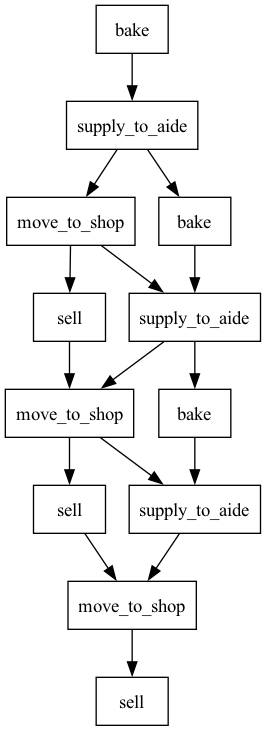
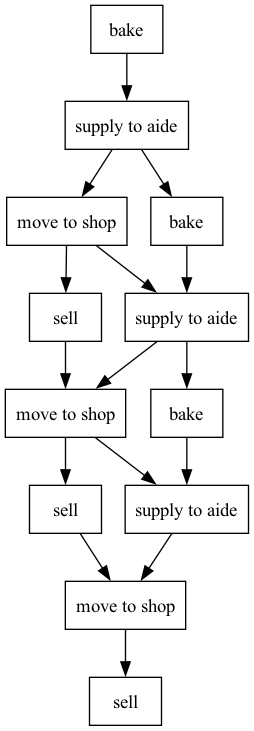
allow spaces in step names

diff --git a/checker.py b/checker.py
@@ -216,9 +216,9 @@ if __name__ == "__main__":
     args = parser.parse_args()
 
     with open(args.ref_run, "r") as f:
-        ref_run_steps = f.readall().split(" ")
+        ref_run_steps = map(lambda a: a.strip(), f.readall().split(","))
     with open(args.check_run, "r") as f:
-        check_run_steps = f.readall().split(" ")
+        check_run_steps = map(lambda a: a.strip(), f.readall().split(","))
     
     if check_equivalence_step_file(ref_run_steps, check_run_steps, args.steps, display=args.display):
         print("The run is a prefix of the reference run")

diff --git a/tester.py b/tester.py
@@ -11,8 +11,8 @@ def parse_test_file(file, tests_dir):
         step_def_file = f.readline().strip()
         step_def_file = os.path.join(tests_dir, step_def_file)
         expected_match = f.readline().strip()
-        run_ref = f.readline().strip().split(" ")
-        run_check = f.readline().strip().split(" ")
+        run_ref = map(lambda a: a.strip(), f.readline().strip().split(","))
+        run_check = map(lambda a: a.strip(), f.readline().strip().split(","))
     return step_def_file, expected_match, run_ref, run_check
 
 

diff --git a/README.md b/README.md
@@ -14,11 +14,13 @@ Use [uv](https://docs.astral.sh/uv/getting-started/installation/) to run the scr
 uv run checker.py --step-defs <step_definitions_file> --reference-run <reference_run_file> --checked-run <checked_run_file>
 ```
 
-The checker might output warnings. The last output will be whether there was a match or not, previous output might hint as to why matching failed.
+The last output will be whether there was a match or not, previous output might hint as to why matching failed.
+
+The checker might output warnings (see below, `X` is a placeholder). 
 
 <details>
 
-<summary>Initial step <> is not contained in the reference graph</summary>
+<summary>Initial step X is not contained in the reference graph</summary>
 
 This message before a `no match` means that there was an additional unconnected step that did not appear in the reference run.
 
@@ -28,18 +30,18 @@ This message before a `no match` means that there was an additional unconnected 
 
 <details>
 
-<summary>Step <> is not defined in the step definitions</summary>
+<summary>Step X is not defined in the step definitions</summary>
 
 A run contains a step that has not been defined in the step file definition. 
 
-Step names should not contain any space characters (as they are used to split the run inputs). 
+Make sure to separate step names in your runs by commas.
 
 ---
 
 </details>
 
 <details>
-<summary>Warning: place <> is a left place of step but is not consumed by any step</summary>
+<summary>Warning: place X is a left place of step but is not consumed by any step</summary>
 
 This warning hints at steps that have unconnected left places. This is not concerning if these places can be considered initial places. 
 
@@ -63,12 +65,12 @@ Sample file:
         "right_places": ["on counter"]
     },
     {
-        "name": "supply_to_aide",
+        "name": "supply to aide",
         "left_places": ["on counter", "aide free"],
         "right_places": ["ready to bake", "aide busy"]
     },
     {
-        "name": "move_to_shop",
+        "name": "move to shop",
         "left_places": ["aide busy", "shelf empty"],
         "right_places": ["aide free", "on shelf"]
     },
@@ -82,12 +84,12 @@ Sample file:
 
 ## Run File Format
 
-A run consists on a series of step names, separated by spaces.
+A run consists on a series of step names, separated by commas. Any excessive space characters before/after the step name are trimmed away. 
 
 A run of the previous steps could be
 
 ```
-bake supply_to_aide move_to_shop sell bake supply_to_aide bake move_to_shop sell supply_to_aide move_to_shop sell
+bake, supply to aide, move to shop, sell, bake, supply to aide, bake, move to shop, sell, supply to aide, move to shop, sell
 ```
 
 ## Displaying the extracted run graphs